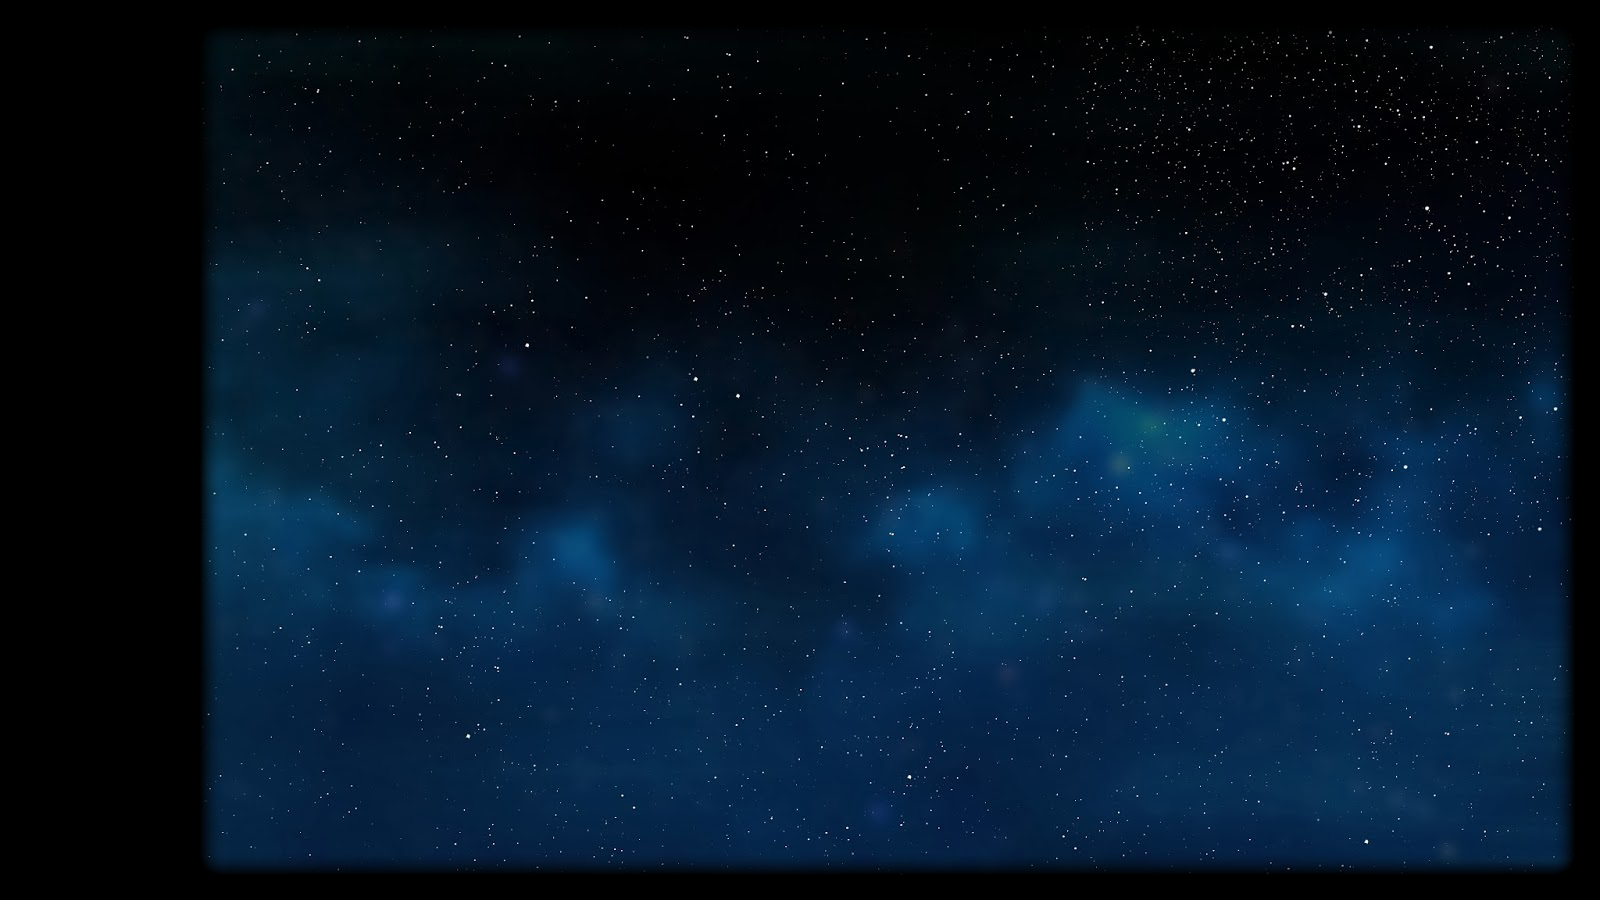
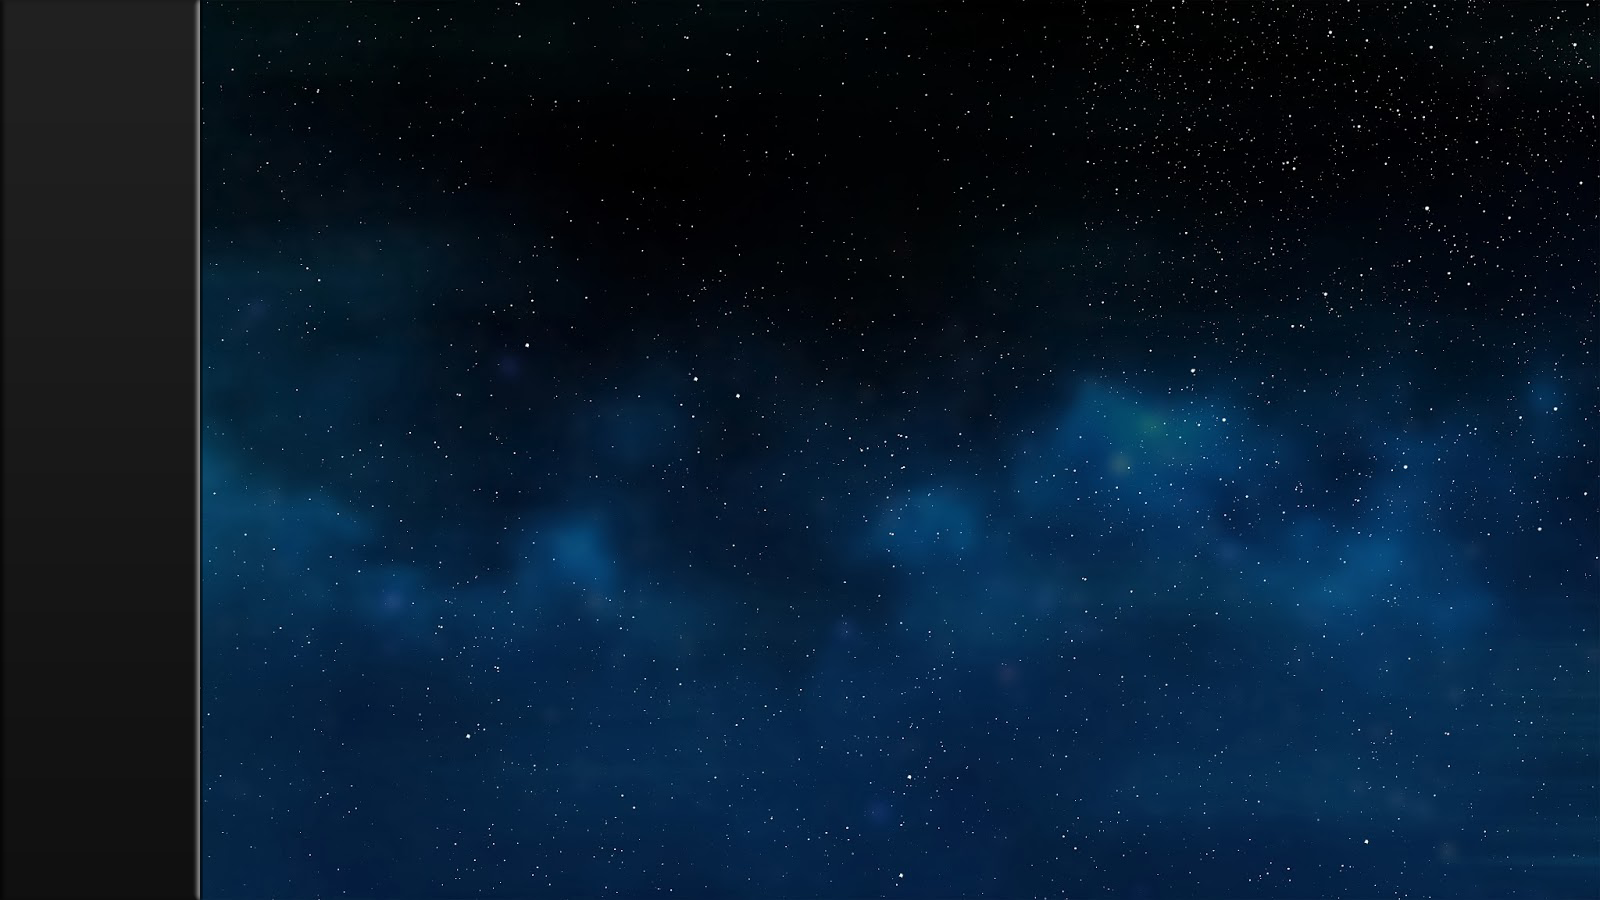
Commit

Changed region(s): [[0.0, 0.0, 1.0, 1.0]]

diff --git a/Boids/Source/Main.cpp b/Boids/Source/Main.cpp
@@ -87,6 +87,7 @@ void initGui(sfx::Application& application, sfx::GuiManager& guiManager, Simulat
     const std::string separation       = convert("Separation: ", simulation.getSeparation(), 3);
     const std::string separationRadius = convert("Separation radius: ", static_cast<float>(simulation.getSeparationRadius()), 0);
     const std::string alignment        = convert("Alignment: ", simulation.getAlignment(), 0);
+    const std::string baseVelocity     = convert("Base velocity: ", simulation.getBaseVelocity(), 1);
     const std::string maxVelocity      = convert("Max velocity: ", simulation.getMaxVelocity(), 0);
     const std::string boids            = convert("Boids: ", static_cast<float>(simulation.getBoids()), 0);
     const std::string followMouse      = "Follow mouse: ";
@@ -96,45 +97,42 @@ void initGui(sfx::Application& application, sfx::GuiManager& guiManager, Simulat
     const std::string mouseRadius      = convert("Mouse radius: ", static_cast<float>(simulation.getMouseRadius()), 0);
     const std::string wrapEdge         = "Wrap edge: ";
 
-    float columns[] = {10.f, 5.f, 95.f, 145.f};
-    float rows[] = {25.f, 50.f, 75.f, 100.f, 125.f, 150.f, 175.f, 200.f, 225.f, 250.f, 275.f, 
-                    300.f, 350.f, 375.f, 400.f, 450.f, 475.f, 500.f, 525.f, 560.f, 585.f, 
-                    650.f};
-
     guiManager.createPicture("background", background);
 
-    auto& labelCohesion         = guiManager.createLabel("labelCohesion",         cohesion,         font, columns[1], rows[0],  characterSize);
-    auto& labelSeparation       = guiManager.createLabel("labelSeparation",       separation,       font, columns[1], rows[2],  characterSize);
-    auto& labelSeparationRadius = guiManager.createLabel("labelSeparationRadius", separationRadius, font, columns[1], rows[4],  characterSize);
-    auto& labelAlignment        = guiManager.createLabel("labelAlignment",        alignment,        font, columns[1], rows[6],  characterSize);
-    auto& labelMaxVelocity      = guiManager.createLabel("labelMaxVelocity",      maxVelocity,      font, columns[1], rows[8],  characterSize);
-    auto& labelBoids            = guiManager.createLabel("labelBoids",            boids,            font, columns[1], rows[10], characterSize);
-    auto& labelFollowMouse      = guiManager.createLabel("labelFollowMouse",      followMouse,      font, columns[1], rows[12], characterSize);
-    auto& labelAvoidMouse       = guiManager.createLabel("labelAvoidMouse",       avoidMouse,       font, columns[1], rows[13], characterSize);
-    auto& labelDrawMouseRadius  = guiManager.createLabel("labelDrawMouseRadius",  drawMouseRadius,  font, columns[1], rows[14], characterSize);
-    auto& labelMouseStrength    = guiManager.createLabel("labelMouseStrength",    mouseStrength,    font, columns[1], rows[15], characterSize);
-    auto& labelMouseRadius      = guiManager.createLabel("labelMouseRadius",      mouseRadius,      font, columns[1], rows[17], characterSize);
-    auto& labelWrapEdge         = guiManager.createLabel("labelWrapEdge",         wrapEdge,         font, columns[1], rows[19], characterSize);
+    auto& labelCohesion         = guiManager.createLabel("labelCohesion",         cohesion,         font, 0, 0,  characterSize);
+    auto& labelSeparation       = guiManager.createLabel("labelSeparation",       separation,       font, 0, 0,  characterSize);
+    auto& labelSeparationRadius = guiManager.createLabel("labelSeparationRadius", separationRadius, font, 0, 0,  characterSize);
+    auto& labelAlignment        = guiManager.createLabel("labelAlignment",        alignment,        font, 0, 0,  characterSize);
+    auto& labelBaseVelocity     = guiManager.createLabel("labelBaseVelocity",     baseVelocity,     font, 0, 0,  characterSize);
+    auto& labelMaxVelocity      = guiManager.createLabel("labelMaxVelocity",      maxVelocity,      font, 0, 0,  characterSize);
+    auto& labelBoids            = guiManager.createLabel("labelBoids",            boids,            font, 0, 0, characterSize);
+    auto& labelFollowMouse      = guiManager.createLabel("labelFollowMouse",      followMouse,      font, 0, 0, characterSize);
+    auto& labelAvoidMouse       = guiManager.createLabel("labelAvoidMouse",       avoidMouse,       font, 0, 0, characterSize);
+    auto& labelDrawMouseRadius  = guiManager.createLabel("labelDrawMouseRadius",  drawMouseRadius,  font, 0, 0, characterSize);
+    auto& labelMouseStrength    = guiManager.createLabel("labelMouseStrength",    mouseStrength,    font, 0, 0, characterSize);
+    auto& labelMouseRadius      = guiManager.createLabel("labelMouseRadius",      mouseRadius,      font, 0, 0, characterSize);
+    auto& labelWrapEdge         = guiManager.createLabel("labelWrapEdge",         wrapEdge,         font, 0, 0, characterSize);
 
-    auto& sliderCohesion         = guiManager.createSlider("sliderCohesion",         slider, columns[0], rows[1], 1.f, 200.f, simulation.getCohesion());
-    auto& sliderSeparation       = guiManager.createSlider("sliderSeparation",       slider, columns[0], rows[3], 0.0f, 10.f, simulation.getSeparation());
-    auto& sliderSeparationRadius = guiManager.createSlider("sliderSeparationRadius", slider, columns[0], rows[5], 1, 100, static_cast<float>(simulation.getSeparationRadius()));
-    auto& sliderAlignment        = guiManager.createSlider("sliderAlignment",        slider, columns[0], rows[7], 1.f, 200.f, simulation.getAlignment());
-    auto& sliderMaxVelocity      = guiManager.createSlider("sliderMaxVelocity",      slider, columns[0], rows[9], 0.f, 1000.f, simulation.getMaxVelocity());
-    auto& sliderMouseStrength    = guiManager.createSlider("sliderMouseStrength",    slider, columns[0], rows[16], 1.f, 10.f, simulation.getMouseStrength());
-    auto& sliderMouseRadius      = guiManager.createSlider("sliderMouseRadius",      slider, columns[0], rows[18], 25.f, 500.f, static_cast<float>(simulation.getMouseRadius()));
+    auto& sliderCohesion         = guiManager.createSlider("sliderCohesion",         slider, 0, 0, 1.f, 200.f, simulation.getCohesion());
+    auto& sliderSeparation       = guiManager.createSlider("sliderSeparation",       slider, 0, 0, 0.0f, 10.f, simulation.getSeparation());
+    auto& sliderSeparationRadius = guiManager.createSlider("sliderSeparationRadius", slider, 0, 0, 1, 100, static_cast<float>(simulation.getSeparationRadius()));
+    auto& sliderAlignment        = guiManager.createSlider("sliderAlignment",        slider, 0, 0, 1.f, 200.f, simulation.getAlignment());
+    auto& sliderBaseVelocity     = guiManager.createSlider("sliderBaseVelocity",     slider, 0, 0, 1.f, 2.f, simulation.getBaseVelocity());
+    auto& sliderMaxVelocity      = guiManager.createSlider("sliderMaxVelocity",      slider, 0, 0, 0.f, 1000.f, simulation.getMaxVelocity());
+    auto& sliderMouseStrength    = guiManager.createSlider("sliderMouseStrength",    slider, 0, 0, 1.f, 10.f, simulation.getMouseStrength());
+    auto& sliderMouseRadius      = guiManager.createSlider("sliderMouseRadius",      slider, 0, 0, 25.f, 500.f, static_cast<float>(simulation.getMouseRadius()));
     
-    auto& textBoids = guiManager.createTextEditBox("textBoids", texteditBox, font, columns[1], rows[11], characterSize);
+    auto& textBoids = guiManager.createTextEditBox("textBoids", texteditBox, font, 0, 0, characterSize);
     textBoids.setText("10");
-    textBoids.setTextPosition(columns[1] + 3.f, rows[11] + characterSize / 4);
+    textBoids.setTextPosition(0 + 3.f, 0 + characterSize / 4);
 
-    auto& buttonAdd = guiManager.createButton("buttonAdd", buttonAddBoid, columns[2], rows[11]);
-    auto& buttonSub = guiManager.createButton("buttonSub", buttonSubBoid, columns[3], rows[11]);
+    auto& buttonAdd = guiManager.createButton("buttonAdd", buttonAddBoid, 0, 0);
+    auto& buttonSub = guiManager.createButton("buttonSub", buttonSubBoid, 0, 0);
 
-    auto& checkboxFollowMouse     = guiManager.createCheckBox("checkboxFollowMouse",     checkbox, columns[3], rows[12] + 3.f);
-    auto& checkboxAvoidMouse      = guiManager.createCheckBox("checkboxAvoidMouse",      checkbox, columns[3], rows[13] + 3.f);
-    auto& checkboxDrawMouseRadius = guiManager.createCheckBox("checkboxDrawMouseRadius", checkbox, columns[3], rows[14] + 3.f);
-    auto& checkboxWrapEdge        = guiManager.createCheckBox("checkboxWrapEdge",        checkbox, columns[3], rows[19] + 3.f);
+    auto& checkboxFollowMouse     = guiManager.createCheckBox("checkboxFollowMouse",     checkbox, 0, 0 + 3.f);
+    auto& checkboxAvoidMouse      = guiManager.createCheckBox("checkboxAvoidMouse",      checkbox, 0, 0 + 3.f);
+    auto& checkboxDrawMouseRadius = guiManager.createCheckBox("checkboxDrawMouseRadius", checkbox, 0, 0 + 3.f);
+    auto& checkboxWrapEdge        = guiManager.createCheckBox("checkboxWrapEdge",        checkbox, 0, 0 + 3.f);
 
     sliderCohesion.callback(1, [&sliderCohesion, &labelCohesion, &simulation]{
         labelCohesion.setText(convert("Cohesion: ", sliderCohesion.getValue(), 0));
@@ -154,6 +152,11 @@ void initGui(sfx::Application& application, sfx::GuiManager& guiManager, Simulat
     sliderAlignment.callback(1, [&sliderAlignment, &labelAlignment, &simulation]{
         labelAlignment.setText(convert("Alignment: ", sliderAlignment.getValue(), 0));
         simulation.setAlignment(sliderAlignment.getValue());
+    });
+
+    sliderBaseVelocity.callback(1, [&sliderBaseVelocity, &labelBaseVelocity, &simulation]{
+        labelBaseVelocity.setText(convert("Base velocity: ", sliderBaseVelocity.getValue(), 1));
+        simulation.setBaseVelocity(sliderBaseVelocity.getValue());
     });
 
     sliderMaxVelocity.callback(1, [&sliderMaxVelocity, &labelMaxVelocity, &simulation]{
@@ -202,6 +205,53 @@ void initGui(sfx::Application& application, sfx::GuiManager& guiManager, Simulat
     checkboxDrawMouseRadius.callback(1, [&simulation] { simulation.setDrawMouseRadius(false); });
     checkboxWrapEdge.callback(0, [&simulation] { simulation.setWrapEdge(true); });
     checkboxWrapEdge.callback(1, [&simulation] { simulation.setWrapEdge(false); });
+
+    std::vector<sfx::GuiObject*> objects;
+    objects.push_back(&labelCohesion);
+    objects.push_back(&sliderCohesion);
+    objects.push_back(&labelSeparation);
+    objects.push_back(&sliderSeparation);
+    objects.push_back(&labelSeparationRadius);
+    objects.push_back(&sliderSeparationRadius);
+    objects.push_back(&labelAlignment);
+    objects.push_back(&sliderAlignment);
+    objects.push_back(&labelBaseVelocity);
+    objects.push_back(&sliderBaseVelocity);
+    objects.push_back(&labelMaxVelocity);
+    objects.push_back(&sliderMaxVelocity);
+    objects.push_back(&labelBoids);
+
+    float leftPadding1 = 15.f;
+    float leftPadding2 = 155.f;
+
+    for(unsigned int i = 0; i < objects.size(); i++)
+        objects[i]->setPosition(leftPadding1, i * 25.f + 25.f + (i % 2 == 0 ? 3 : 0));
+
+    objects.clear();
+    
+    textBoids.setPosition(leftPadding1, labelBoids.getPosition().y + 22.f);
+    buttonAdd.setPosition(105.f, labelBoids.getPosition().y + 22.f);
+    buttonSub.setPosition(150.f, labelBoids.getPosition().y + 22.f);
+
+    labelFollowMouse.setPosition(leftPadding1, buttonSub.getPosition().y + 50.f);
+    labelAvoidMouse.setPosition(leftPadding1, labelFollowMouse.getPosition().y + 25.f);
+    labelDrawMouseRadius.setPosition(leftPadding1, labelAvoidMouse.getPosition().y + 25.f);
+    labelWrapEdge.setPosition(leftPadding1, labelDrawMouseRadius.getPosition().y + 25.f);
+
+    checkboxFollowMouse.setPosition(leftPadding2, labelFollowMouse.getPosition().y + 2.f);
+    checkboxAvoidMouse.setPosition(leftPadding2, labelAvoidMouse.getPosition().y + 2.f);
+    checkboxDrawMouseRadius.setPosition(leftPadding2, labelDrawMouseRadius.getPosition().y + 2.f);
+    checkboxWrapEdge.setPosition(leftPadding2, labelWrapEdge.getPosition().y + 2.f);
+
+    objects.push_back(&labelMouseStrength);
+    objects.push_back(&sliderMouseStrength);
+    objects.push_back(&labelMouseRadius);
+    objects.push_back(&sliderMouseRadius);
+
+    for(unsigned int i = 0; i < objects.size(); i++)
+        objects[i]->setPosition(leftPadding1, i * 25.f + checkboxWrapEdge.getPosition().y + 40.f);
+    
+
 }
 
 std::string convert(const std::string& prefix, float value, int precision)

diff --git a/Boids/Source/Simulation.cpp b/Boids/Source/Simulation.cpp
@@ -30,14 +30,15 @@ Simulation::Simulation(unsigned int x, unsigned int y, unsigned int width, unsig
     m_drawMouseRadius (false),
     m_wrapEdge (false)
 {
-    m_cohesion = 100.f;
-    m_separation = 1.0f;
+    m_cohesion         = 100.f;
+    m_separation       = 1.0f;
     m_separationRadius = 25;
-    m_alignment = 100.f;
-    m_screenBound = 200.f;
-    m_maxVelocity = 400.f;
-    m_mouseStrength = 1.f;
-    m_mouseRadius   = 100;
+    m_alignment        = 100.f;
+    m_screenBound      = 200.f;
+    m_baseVelocity     = 1.f;
+    m_maxVelocity      = 400.f;
+    m_mouseStrength    = 1.f;
+    m_mouseRadius      = 100;
 }
 
 void Simulation::addBoid(Boid& boid)
@@ -71,7 +72,7 @@ void Simulation::update(float dt)
         if(m_avoidMouse)
             velocity -= applyMousePosition(boid) * m_mouseStrength;
 
-        boid.setVelocity(boid.getVelocity() + velocity);
+        boid.setVelocity((boid.getVelocity() + velocity) * m_baseVelocity);
         applyVelocityLimit(boid);
         boid.setPosition(boid.getPosition() + boid.getVelocity() * dt);
     }
@@ -163,7 +164,7 @@ void Simulation::applyWrapEdge(Boid& boid) const
 
 sf::Vector2f Simulation::applyMousePosition(Boid& boid) const
 {
-    if(m_mousePosition.x < 200)
+    if(m_mousePosition.x < m_x)
         return sf::Vector2f();
 
     if(sfx::getDistance(boid.getPosition(), m_mousePosition) < m_mouseRadius)
@@ -190,6 +191,11 @@ int Simulation::getSeparationRadius() const
 float Simulation::getAlignment() const
 {
     return m_alignment;
+}
+
+float Simulation::getBaseVelocity() const
+{
+    return m_baseVelocity;
 }
 
 float Simulation::getMaxVelocity() const
@@ -240,6 +246,11 @@ void Simulation::setSeperationRadius(int seperationRadius)
 void Simulation::setAlignment(float alignment)
 {
     m_alignment = alignment;
+}
+
+void Simulation::setBaseVelocity(float baseVelocity)
+{
+    m_baseVelocity = baseVelocity;
 }
 
 void Simulation::setMaxVelocity(float maxVelocity)

diff --git a/Boids/Source/Simulation.hpp b/Boids/Source/Simulation.hpp
@@ -29,6 +29,7 @@ public:
     float getSeparation() const;
     int getSeparationRadius() const;
     float getAlignment() const;
+    float getBaseVelocity() const;
     float getMaxVelocity() const;
     int getBoids() const;
     float getMouseStrength() const;
@@ -40,6 +41,7 @@ public:
     void setSeparation(float separation);
     void setSeperationRadius(int seperationRadius);
     void setAlignment(float alignment);
+    void setBaseVelocity(float baseVelocity);
     void setMaxVelocity(float maxVelocity);
     void setMouseStrength(float mouseStrength);
     void setMouseRadius(int mouseRadius);
@@ -74,6 +76,7 @@ private:
     int          m_separationRadius;
     float        m_alignment;
     float        m_screenBound;
+    float        m_baseVelocity;
     float        m_maxVelocity;
     float        m_mouseStrength;
     int          m_mouseRadius;
